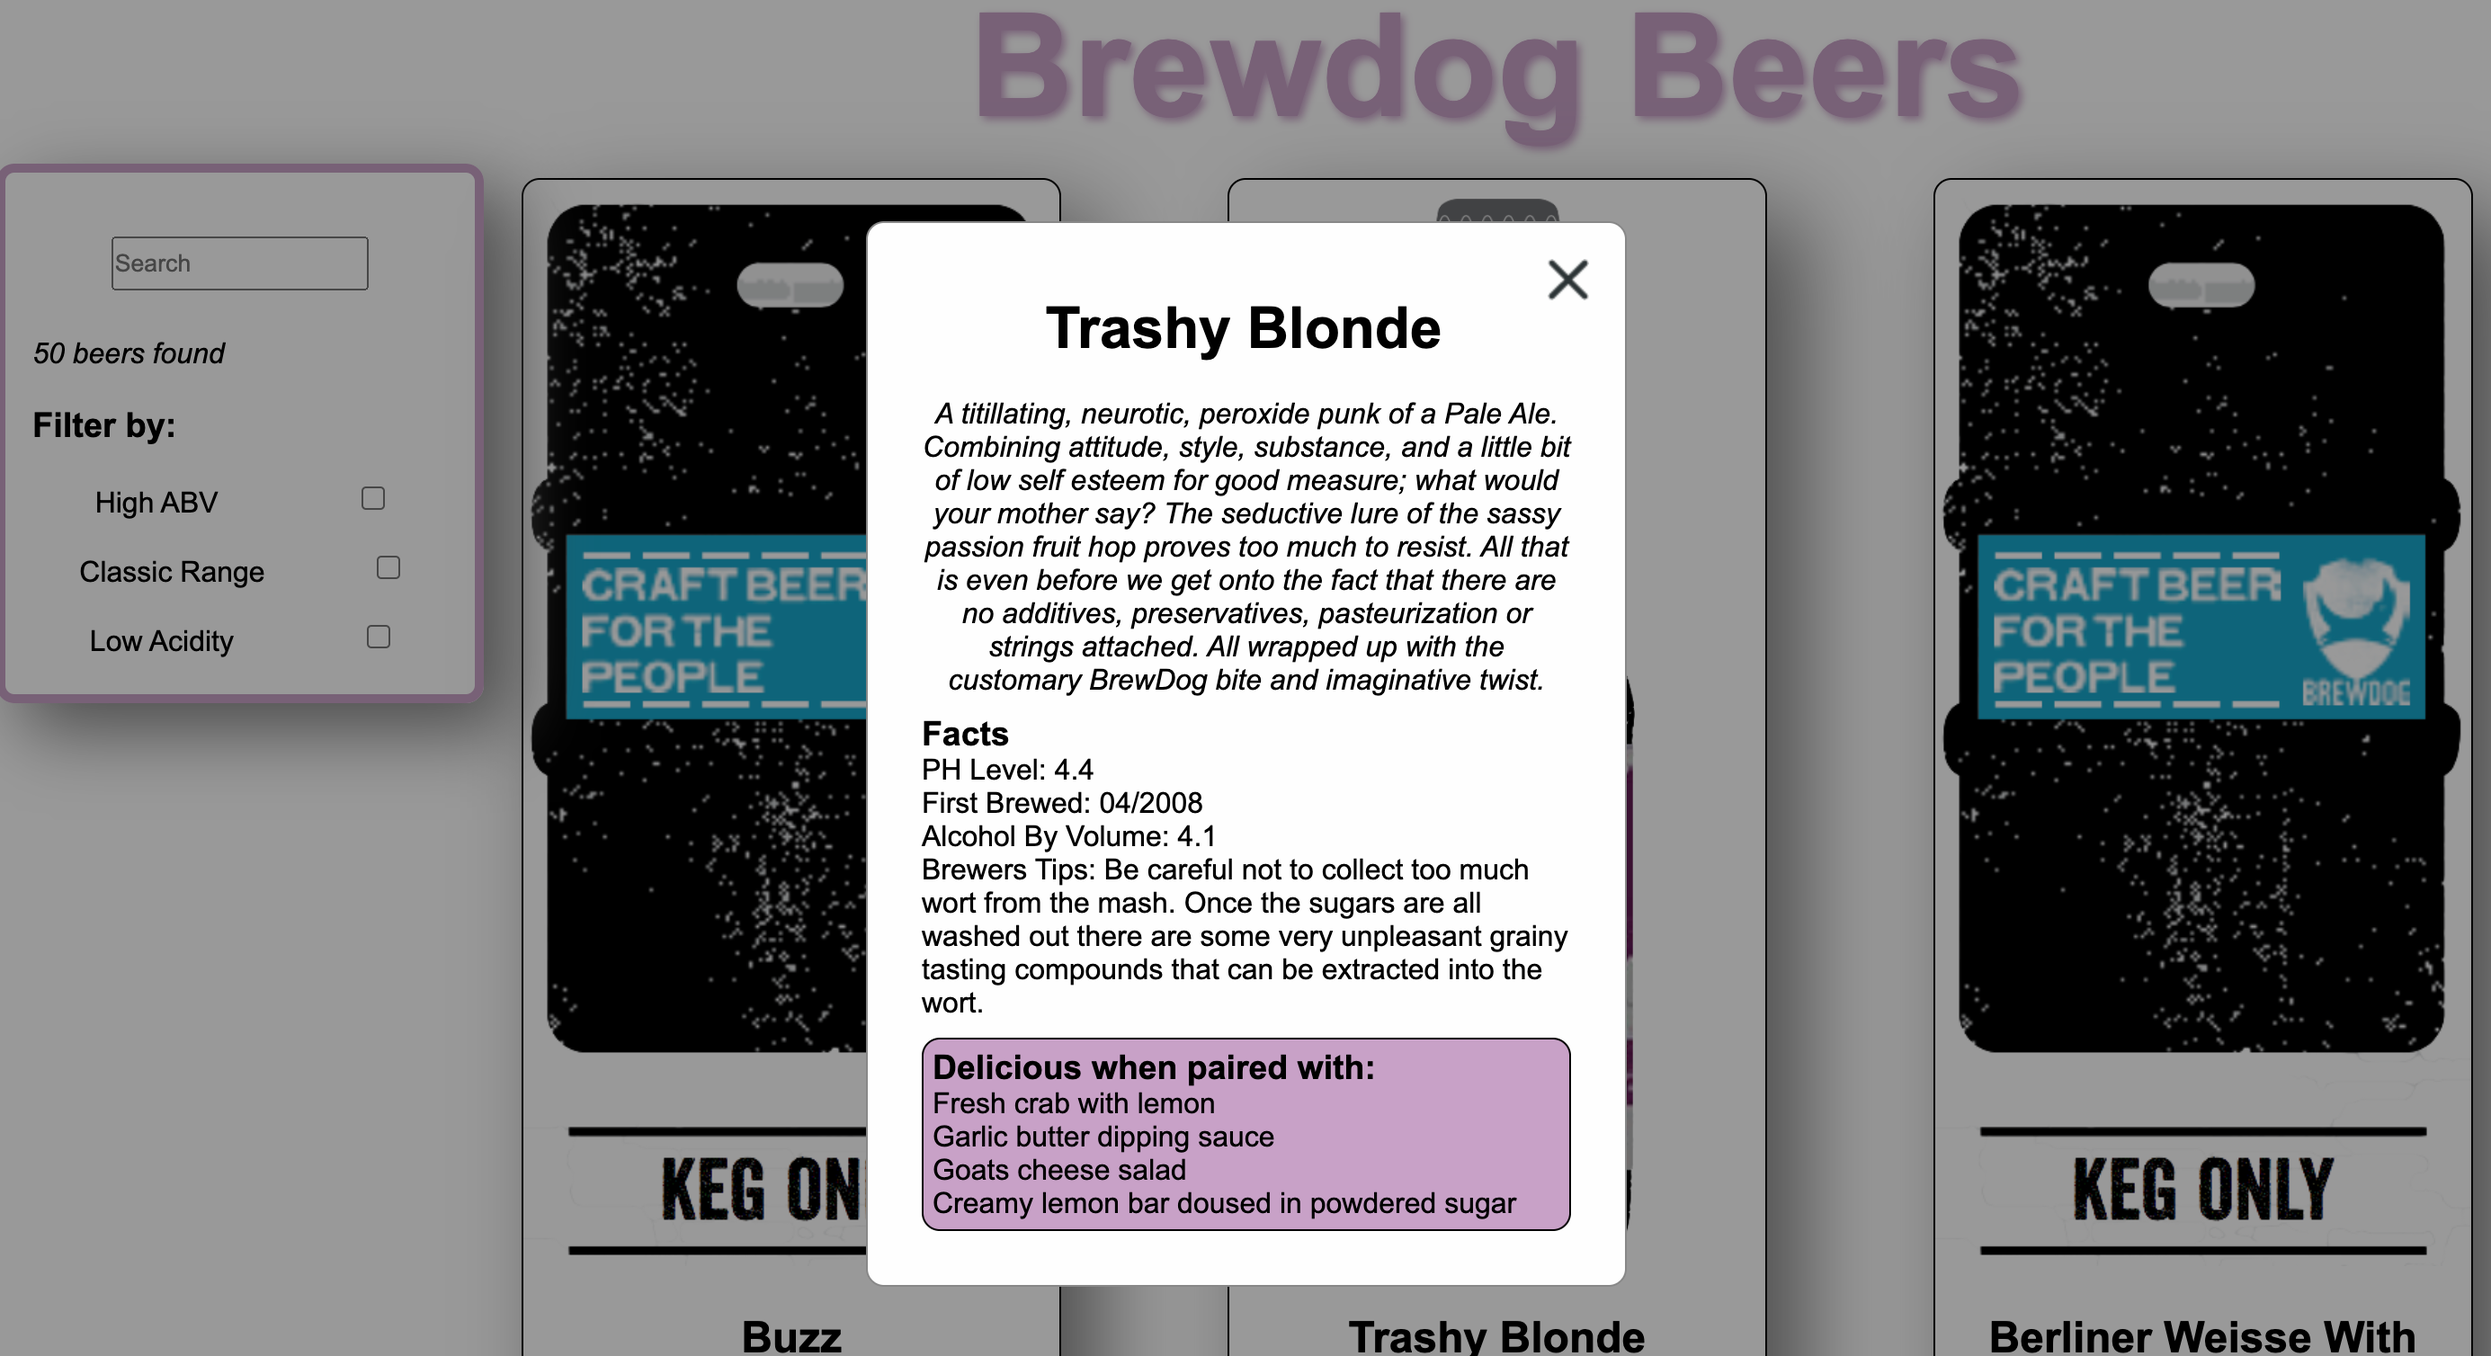
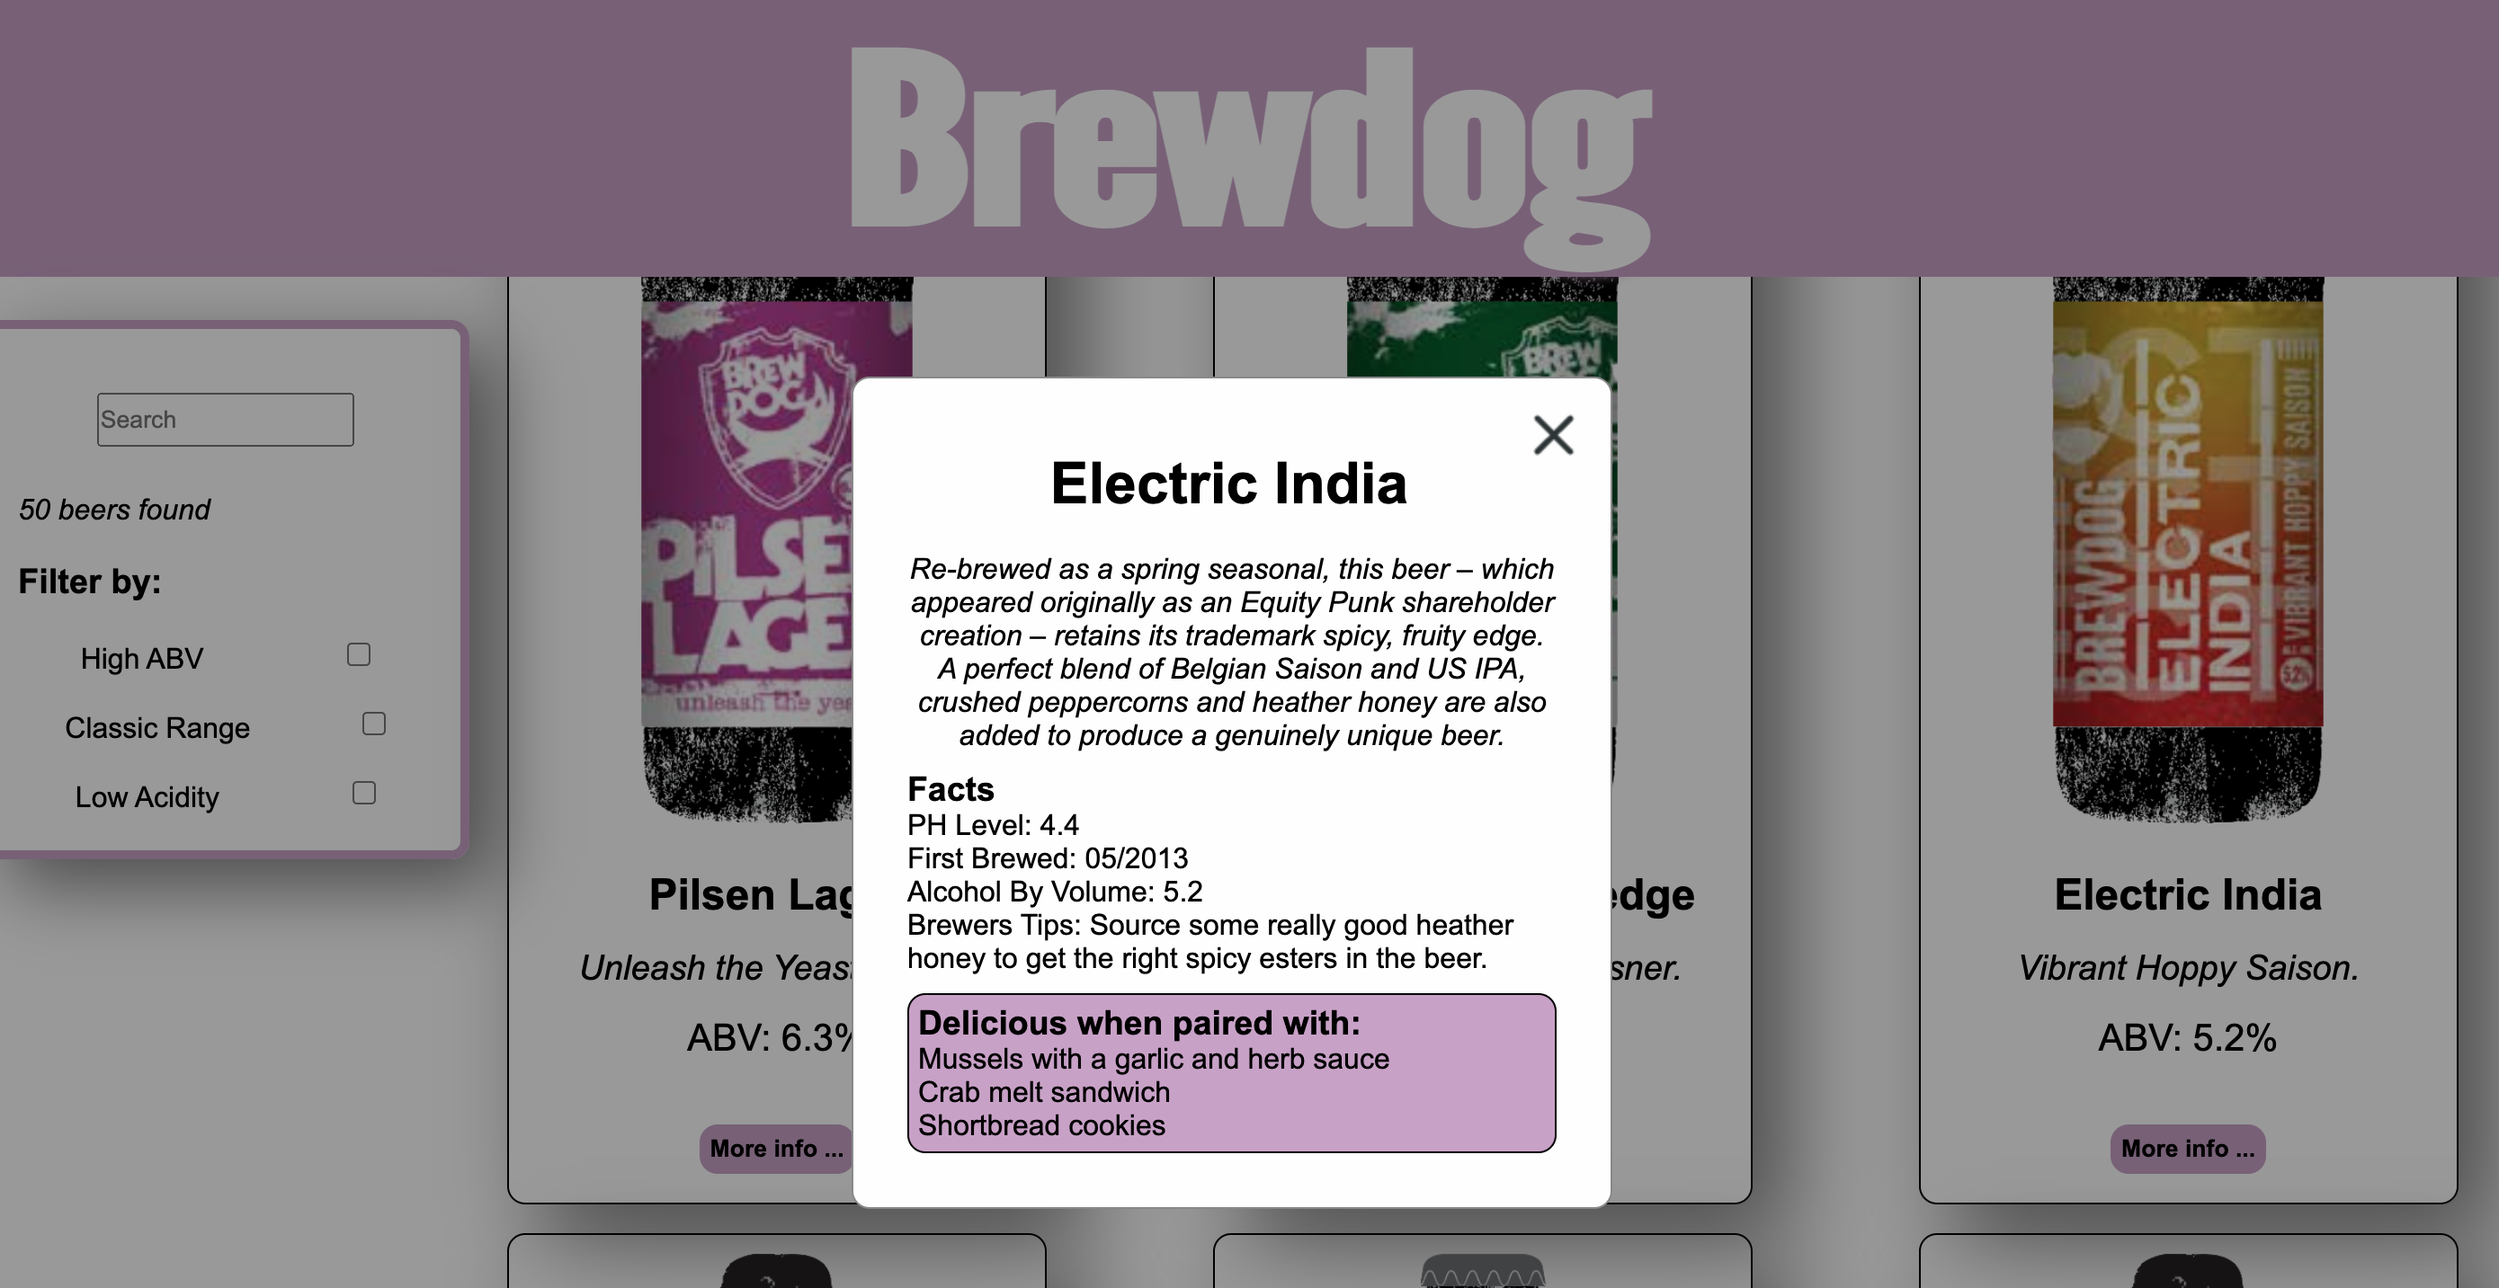
carousel added

diff --git a/src/data/projectsArray.jsx b/src/data/projectsArray.jsx
@@ -1,37 +1,50 @@
 import quiz from "../assets/images/quiz.png";
 import calculator from "../assets/images/calculator.png";
 import brewdog from "../assets/images/brewdog.png";
+import morseCode from "../assets/images/morseCode.png";
 
 
 const projectsArray = [
     {
         projectID:"1",
-        Name:"Quiz Game",
-        Tag:"A quiz made in Javascript",
-        Description:"This was my third project on the _nology course and my second JavaScript project. We were given a week to create a game of our choosing so I made a quiz. My quiz includes 10 questions and you have 15 seconds to answer each question. If you answer correctly, the answer will turn green and 1 point will be added to the score. If you answer incorrectly, the answer will turn red and no points are added to the score. After 1 second the next question will be displayed and the timer will restart. If the timer runs out the quiz will automatically move onto the next question. At the end of the quiz the final score is displayed and a little message depending on the score. There is a home button that can be pressed at any time to return to the homepage and restart the game.  Each time the game is played the questions are displayed in a random order.",
-        techStack:["HTML","CSS/SCSS","JavaScript"],
-        image:{quiz},
-        websiteLink:"https://hope-sugden.github.io/js-game-project/",
-        codeLink:"https://github.com/hope-sugden/js-game-project"
-    },
-    {
-        projectID:"2",
-        Name:"Calculator Project",
-        Tag:"A fully functioning calculator made in Javascript",
-        Description:"This was my second project on the _nology course and my first Javascript project. The challenge was to make a fully functioning calculator and style it to our liking. I decided to have 2 display screens so the equation and the answer can be displayed at the same time. All of the functions work as per a scientific calculator.",
-        techStack:["HTML","CSS/SCSS","JavaScript"],
-        image:{calculator},
-        websiteLink:"https://hope-sugden.github.io/calculator-project/",
-        codeLink:"https://github.com/hope-sugden/calculator-project"
-    },
-    {
-        projectID:"3",
         Name:"Brewdog Project",
         Tag:"A website built in react using APIs to display and filter beers.",
         Description:"This was my fourth project on the nology course and our first project using React. We were challeged to make a website to display Brewdog Beers by pulling information through from an API. We were also required to add a search bar and 3 filters.",
         techStack:["React","CSS/SCSS","JavaScript"],
-        image:{brewdog},
+        image:`${brewdog}`,
         websiteLink:"https://hope-sugden.github.io/brewdog-project/",
         codeLink:"https://github.com/hope-sugden/brewdog-project"
-    }
+    },
+    {
+        projectID:"2",
+        Name:"Quiz Game",
+        Tag:"A quiz made in Javascript",
+        Description:"This was my third project on the _nology course and my second JavaScript project. We were given a week to create a game of our choosing so I made a quiz. My quiz includes 10 questions and you have 15 seconds to answer each question. If you answer correctly, the answer will turn green and 1 point will be added to the score. If you answer incorrectly, the answer will turn red and no points are added to the score. After 1 second the next question will be displayed and the timer will restart. If the timer runs out the quiz will automatically move onto the next question. At the end of the quiz the final score is displayed and a little message depending on the score. There is a home button that can be pressed at any time to return to the homepage and restart the game.  Each time the game is played the questions are displayed in a random order.",
+        techStack:["HTML","CSS/SCSS","JavaScript"],
+        image:`${quiz}`,
+        websiteLink:"https://hope-sugden.github.io/js-game-project/",
+        codeLink:"https://github.com/hope-sugden/js-game-project"
+    },
+    {
+        projectID:"3",
+        Name:"Calculator Project",
+        Tag:"A fully functioning calculator made in Javascript",
+        Description:"This was my second project on the _nology course and my first Javascript project. The challenge was to make a fully functioning calculator and style it to our liking. I decided to have 2 display screens so the equation and the answer can be displayed at the same time. All of the functions work as per a scientific calculator.",
+        techStack:["HTML","CSS/SCSS","JavaScript"],
+        image:`${calculator}`,
+        websiteLink:"https://hope-sugden.github.io/calculator-project/",
+        codeLink:"https://github.com/hope-sugden/calculator-project"
+    },
+    {
+        projectID:"4",
+        Name:"Morse Code Translator",
+        Tag:"A translator to convert text to and from Morse Code",
+        Description:"This was a short challenge set to us on the nology course. We were challenged to create a working Morse Code Translator in less than 4 hours. It was such a daunting yet fun challenge that really cemented by JavaScript knowledge. It's only limitation is that I havent added all symbols to the data so at the moment only letters, numbers and full stops can be translated. ",
+        techStack:["HTML","CSS/SCSS","JavaScript"],
+        image:`${morseCode}`,
+        websiteLink:"https://hope-sugden.github.io/morse-code-calculator/",
+        codeLink:"https://github.com/hope-sugden/morse-code-calculator"
+    }    
 ]
+
+export default projectsArray;

diff --git a/src/components/ProjectsCarousel/ProjectsCarousel.jsx b/src/components/ProjectsCarousel/ProjectsCarousel.jsx
@@ -1,0 +1,80 @@
+import React, { useState } from 'react'
+import "./ProjectsCarousel.scss"
+import projectsArray from "../../data/projectsArray";
+import leftArrow from "../../assets/images/arrow_back.svg";
+import rightArrow from "../../assets/images/arrow_forward.svg";
+import MoreInfo from "../MoreInfo/MoreInfo";
+
+const ProjectsCarousel = () => {
+    const [counter, setCounter] = useState(0);
+    const [showMoreInfo,setShowMoreInfo] = useState(false);
+
+    const toggleMoreInfo = () => {
+        setShowMoreInfo(!showMoreInfo);
+    }
+
+    const projectImagesArray = projectsArray.map(project => {
+        return project.image;
+    })
+
+    const projectTagsArray = projectsArray.map(project => {
+        return project.Tag;
+    })
+    const projectNamesArray = projectsArray.map(project => {
+        return project.Name;
+    })
+    const projectDescriptionsArray = projectsArray.map(project => {
+        return project.Description;
+    })
+    const projectCodeLinkArray = projectsArray.map(project => {
+        return project.codeLink;
+    })
+    const projectTechStacksArray = projectsArray.map(project => {
+        return project.techStack;
+    })
+    const projectWebLinkArray = projectsArray.map(project => {
+        return project.websiteLink;
+    })
+
+
+    const handleIncrement = () => {
+        if(counter === projectsArray.length -1) {
+            setCounter(0);
+        }else {
+            setCounter(counter+1);
+        }
+    };
+    const handleDecrement = () => {
+        if(counter === 0){
+            setCounter(projectsArray.length-1);
+        }else {
+            setCounter(counter-1);
+        }
+    };
+  return (
+    <div className='carousel'>
+        {showMoreInfo && <MoreInfo toggleMoreInfo={toggleMoreInfo} projectImage={projectImagesArray[counter]} projectTag={projectTagsArray[counter]} projectName={projectNamesArray[counter]} projectDescription={projectDescriptionsArray[counter]} 
+        projectCode={projectCodeLinkArray[counter]} projectTechStack={projectTechStacksArray[counter]} projectWebsite={projectWebLinkArray[counter]}/>}
+        <img
+            src={leftArrow}
+            alt="left arrow"
+            onClick={handleDecrement}
+            className="carousel__arrow carousel__arrow--left"
+        />
+        <div className='carousel__body'>
+            <h2 className='carousel__name'>{projectNamesArray[counter]}</h2>
+            <img src={projectImagesArray[counter]} alt="" className="carousel__image" />
+            <h3 className='carousel__tag'>{projectTagsArray[counter]}</h3>
+            <button className='carousel__button' onClick={toggleMoreInfo}>More info ...</button>
+        </div>
+        <img
+            src={rightArrow}
+            alt="right arrow"
+            onClick={handleIncrement}
+            className="carousel__arrow carousel__arrow--right"
+        />
+    </div>
+  )
+}
+
+export default ProjectsCarousel

diff --git a/src/components/MoreInfo/MoreInfo.scss b/src/components/MoreInfo/MoreInfo.scss
@@ -1,0 +1,106 @@
+@use "../../assets/sass/variables" as * ;
+
+.more-info {
+    position: fixed;
+    z-index: 1;
+    left: 0;
+    top: 0;
+    width: 100%;
+    height: 100%;
+    overflow: auto;
+    background-color: rgb(0,0,0);
+    background-color: rgb(0,0,0,0.4);
+
+    &__content {
+        background-color: #444444;
+        margin: 15% auto;
+        padding: 20px;
+        border: 1px solid #888;
+        border-radius: 10px;
+        width: 40%;
+        min-width: 200px;
+    }
+
+    &__cross {
+        float: right;
+    }
+    &__cross:hover,
+    &__cross:focus {
+        cursor: pointer;
+    }
+
+    &__name {
+        text-align: center;
+        margin: 20px;
+        font-size: xx-large;
+        color: $color-primary;
+    }
+
+    &__description {
+        font-style: italic;
+        margin: 10px;
+        text-align: center;
+    }
+    &__img-div {
+        display: flex;
+        justify-content: center;
+    }
+    &__image {
+        width: 90%;
+        align-items: center;
+        margin-top: 1rem;
+        margin-bottom: 1rem;
+    }
+    &__tag {
+    // color: black;
+    }
+    &__description {
+        // color: black;
+    }
+    &__buttons {
+        display: flex;
+        justify-content: space-around;
+    }
+    @media screen and (max-width:900px) {
+        &__buttons {
+            flex-direction: column;
+        }
+    }
+    &__website {
+        display: block;
+        width: 160px;
+        font-family: $font-body;
+        background-color: $color-primary;
+        color: $color-black;
+        text-align: center;
+        padding: 10px 20px;
+        border-radius: 10px;
+        border: none;
+        margin-top: 40px;
+        text-decoration: none;
+        }
+    &__code {
+        display: block;
+        width: 160px;
+        font-family: $font-body;
+        background-color: $color-primary;
+        color: $color-black;
+        text-align: center;
+        padding: 10px 20px;
+        border-radius: 10px;
+        border: none;
+        margin-top: 40px;
+        text-decoration: none;
+        }
+    a:hover {
+        color : $color-white;
+    }
+    &__tech-stack {
+        // color: $color-black;
+        list-style: none;
+    }
+    &__stack {
+        // color: $color-black;
+    }
+}
+

diff --git a/src/components/MoreInfo/MoreInfo.jsx b/src/components/MoreInfo/MoreInfo.jsx
@@ -1,0 +1,32 @@
+import React from 'react'
+import "./MoreInfo.scss";
+import whiteCross from "../../assets/images/white_cross.svg";
+
+const MoreInfo = ({toggleMoreInfo,projectImage,projectTag, projectName,projectDescription,projectCode,projectTechStack,projectWebsite}) => {
+  const techStackJSX = projectTechStack.map(tech => <li className='more-info__tech-stack'>{tech}</li>)
+    return (
+    <div className='more-info'>
+        <div className='more-info__content'>
+            <img src={whiteCross} alt="Close info" className="more-info__cross" onClick={toggleMoreInfo} />
+            <h2 className='more-info__name'>{projectName}</h2>
+            <p className="more-info__tag">{projectTag}</p>
+            <div className='more-info__img-div'>
+                <img src={projectImage} alt={projectName} className="more-info__image"/>
+            </div>
+            <p className='more-info__description'>{projectDescription}</p>
+            <div>
+                <h3 className='more-info__stack'>Tech Stack:</h3>
+                <ul className='more-info__list'>
+                    {techStackJSX}
+                </ul>
+            </div>
+            <div className='more-info__buttons'>
+                <a href={projectWebsite} className="more-info__website">View Website</a>
+                <a href={projectCode} className="more-info__code">View Code</a>
+            </div>
+        </div>
+    </div>
+  )
+}
+
+export default MoreInfo

diff --git a/src/components/ProjectsCarousel/ProjectsCarousel.scss b/src/components/ProjectsCarousel/ProjectsCarousel.scss
@@ -1,0 +1,60 @@
+@use "../../assets/sass/variables" as *;
+
+.carousel {
+    display: flex;
+    justify-content: center;
+
+    &__body {
+        display: flex;
+        flex-direction: column;
+        align-items: center;
+        border: 1px solid white;
+        border-radius: 10px;
+        width: 80%;
+        height: 100%;
+        margin-top: 4rem;
+        margin-bottom: 4rem;
+    }
+    &__button {
+        display: block;
+        width: 160px;
+        font-family: $font-body;
+        background-color: $color-primary;
+        color: $color-black;
+        text-align: center;
+        padding: 10px 20px;
+        border-radius: 10px;
+        border: none;
+        margin: 1rem;
+        text-decoration: none;
+
+        }
+    button:hover {
+        color : $color-white;
+    
+    }
+    &__arrow {
+        width: 4rem;
+        
+    }
+    &__arrow:hover {
+        width: 4.5rem;
+        cursor: pointer;
+    }
+    &__image {
+        max-width: 75%;
+        max-height: 30rem;
+        border-radius: 10px;
+        margin-bottom: 1rem;
+    }
+    &__name {
+        margin: 1rem;
+    font-size: 2.5rem;
+    color: $color-primary;
+    }
+    &__tag {
+        text-align: center;
+        margin: 1rem;
+    }
+    
+}

diff --git a/src/containers/Projects/Projects.jsx b/src/containers/Projects/Projects.jsx
@@ -1,22 +1,13 @@
 import React from 'react'
-import CalculatorProject from '../../components/CalculatorProject/CalculatorProject';
-import QuizProject from '../../components/QuizProject/QuizProject';
 import "./Projects.scss";
-// import BrewdogProject from "../../components"
+import ProjectsCarousel from '../../components/ProjectsCarousel/ProjectsCarousel';
 
 export const Projects = () => {
   return (
-    <section class="projects">
-        <h2 class="projects__title" id="projects">Projects</h2>
+    <section className="projects">
+        <h2 className="projects__title" id="projects">Projects</h2>
         <hr/>
-        {/* <BrewdogProject /> */}
-        <QuizProject />
-        <CalculatorProject />
-
-
-
-
-    
+        <ProjectsCarousel />    
 </section>
   )
 }
